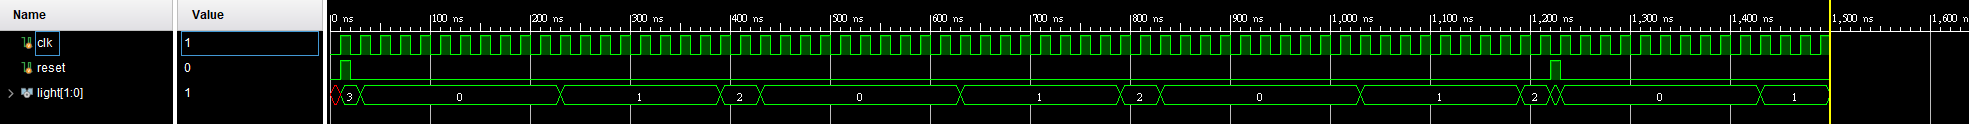
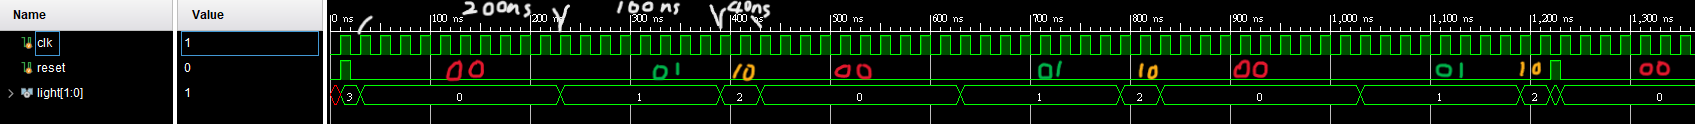
Q2.1 update

diff --git a/Q2.1/README.md b/Q2.1/README.md
@@ -65,9 +65,25 @@ always@(*)begin//light
 	state_yellow:light = yellow;
 	endcase
 ```
-##### 使用狀態機做出現在及之後狀態
 ##### 紅燈狀態為00 綠燈為01 黃燈為 10 
-![testbench](images/testbench.png)
+###Testbench
+```verilog
+    initial begin
+		clk = 0;
+		reset = 0;
+	end
+	
+	initial begin
+		#10 reset = 1;
+		#10 reset = 0;
+	    #1200 reset = 1;
+		#10 reset = 0; 
+	end
+	
+	initial forever #10 clk = ~clk;
+	initial $monitor($time, " light = %b", light);
+	initial #1500 $finish;
+```
 
 ![behavioral](images/behavioral.png)
 
